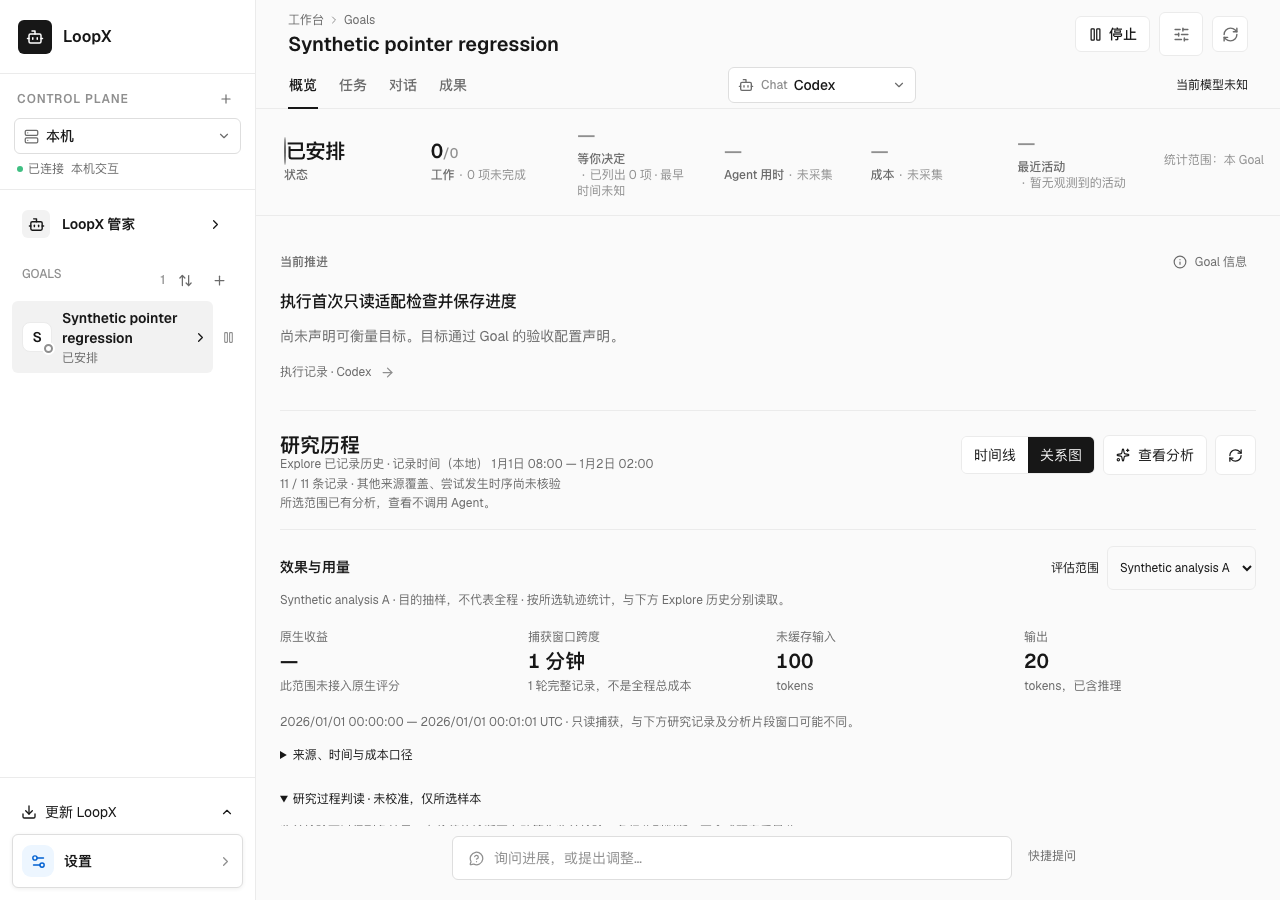
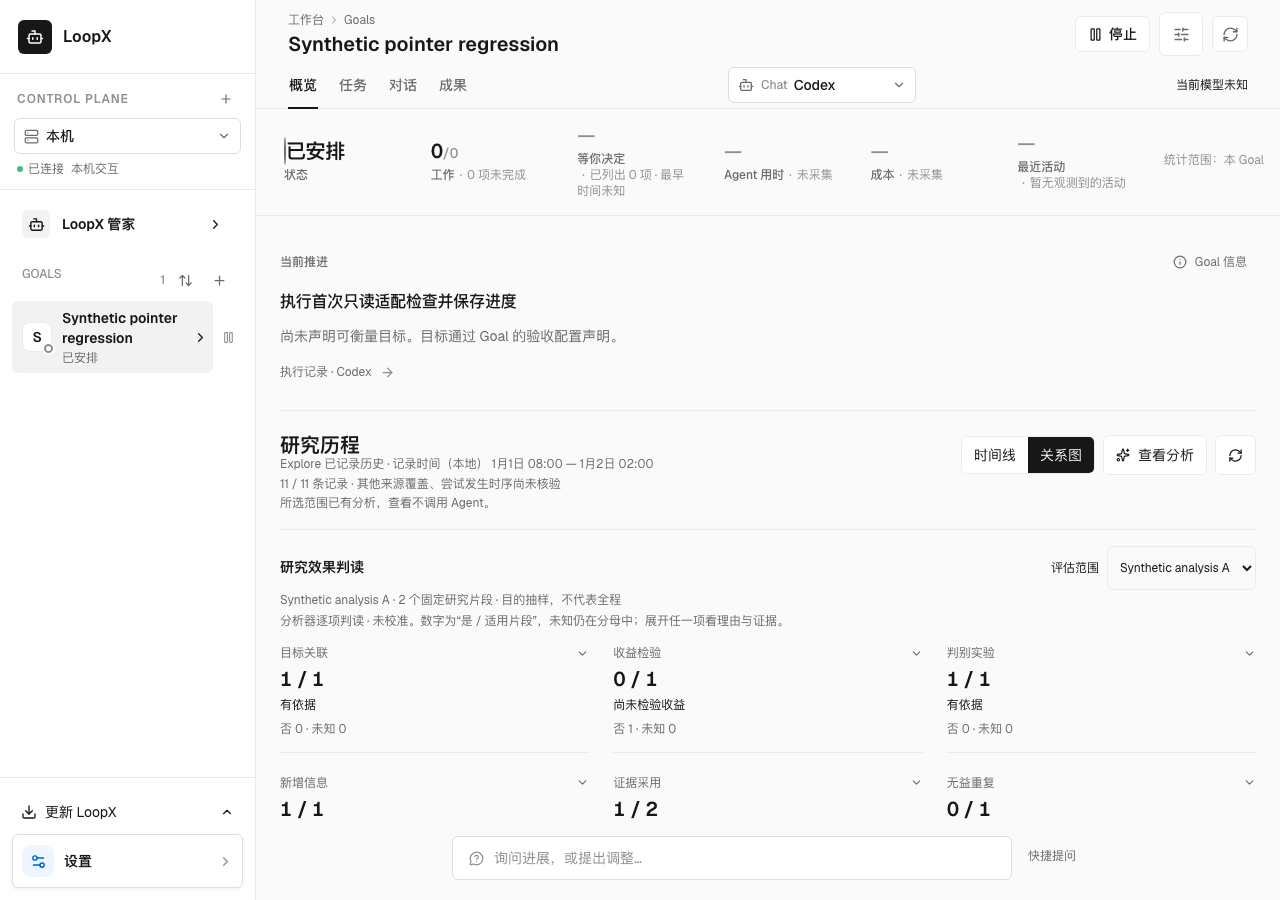
docs(research): show primary judgments and secondary usage

diff --git a/docs/architecture/rfcs/goal-workspace-surface-v0.md b/docs/architecture/rfcs/goal-workspace-surface-v0.md
@@ -715,10 +715,14 @@ qualify the complete interactive history journey.
 **Checkpoint 2026-10-17 (V12 fixed-pack workspace integration, proposed).**
 The packaged workspace connects the registered-source producer to an explicit
 analysis action, cancellation, retry and cited result reading. Reading or
-refreshing an existing result never requests execution. The first result level
-separates original-objective utility testing from useful diagnostics and
-evidence adoption; the remaining judgments, exact source lines and analysis
-usage are optional details. Disposable real-HTTP/process checks cover duplicate
+refreshing an existing result never requests execution. All six analyzer-defined
+process judgments are primary: goal alignment, benefit testing, discrimination,
+information gain, evidence adoption and avoidable repetition. Each shows its
+producer-owned yes/eligible, no and unknown counts; zero eligibility is N/A.
+One optional disclosure reveals the episode, reason and citation; the shared
+reader opens original source lines. Method, result identity and scope remain
+inspectable. Usage and cost are secondary. Utility testing does not imply positive
+utility, and finding repetition is not a positive result; there is no total score. Disposable real-HTTP/process checks cover duplicate
 requests, cancellation, failed retry, owner isolation and changed sources;
 packaged browser checks cover selection races, reload, keyboard and narrow
 screens. A separately authorized real model journey exercises the same entry

diff --git a/docs/reference/trajectory-assessment.md b/docs/reference/trajectory-assessment.md
@@ -262,6 +262,15 @@ is introduced.
 ## Goal workspace reader
 
 The Goal overview offers **Deep analysis** beside the recorded Explore history.
+The primary summary displays the existing six process judgments, each with
+its yes/eligible, no and unknown counts. An eligible denominator of zero is
+N/A, and missing analysis stays unanalysed. One metric disclosure shows the
+bound episode, explanation and citations; original source reads reuse the
+same reader as detailed analysis. Coverage and missing-data bounds come from
+the assessment owner, not a frontend score. Avoidable repetition has the
+opposite interpretation to a useful positive observation. Costs are optional
+secondary context. These are not native outcome magnitudes or a total score.
+
 Choose a registered source, inspect its fixed scope and model request, then
 explicitly run or retry analysis. Reading, refreshing, switching sources and
 following citations never launches a job. Running work can be cancelled;
